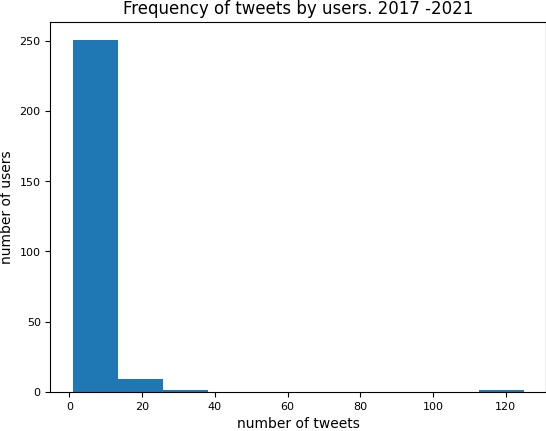
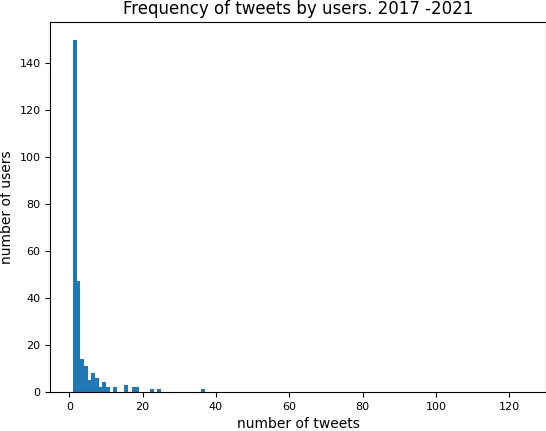
minor changes in histogram

diff --git a/anon_identifier.py b/anon_identifier.py
@@ -43,17 +43,13 @@ for elem in tweet_occurances.values():
     num_of_tweets[elem] += 1 
 print(num_of_tweets)
 print(tweet_occurances)
-#TODO use tweet_occurances, which lists the amounts of time each user tweeted to make
-# a histogram of number of tweets on the x axis, and amount of users which have 
-# tweeted given amount 
-plt.hist(tweet_occurances, bins = np.arange(1,max_number_of_tweets+2))
 
 fig, ax = plt.subplots()
 
 for label in (ax.get_xticklabels() + ax.get_yticklabels()):
     label.set_fontsize(8)
 
-ax.hist(tweet_occurances.values())
+ax.hist(tweet_occurances.values(), bins = np.arange(1, max_number_of_tweets))
 plt.ylabel('number of users')
 plt.xlabel('number of tweets')
 plt.title('Frequency of tweets by users. 2017 -2021')
